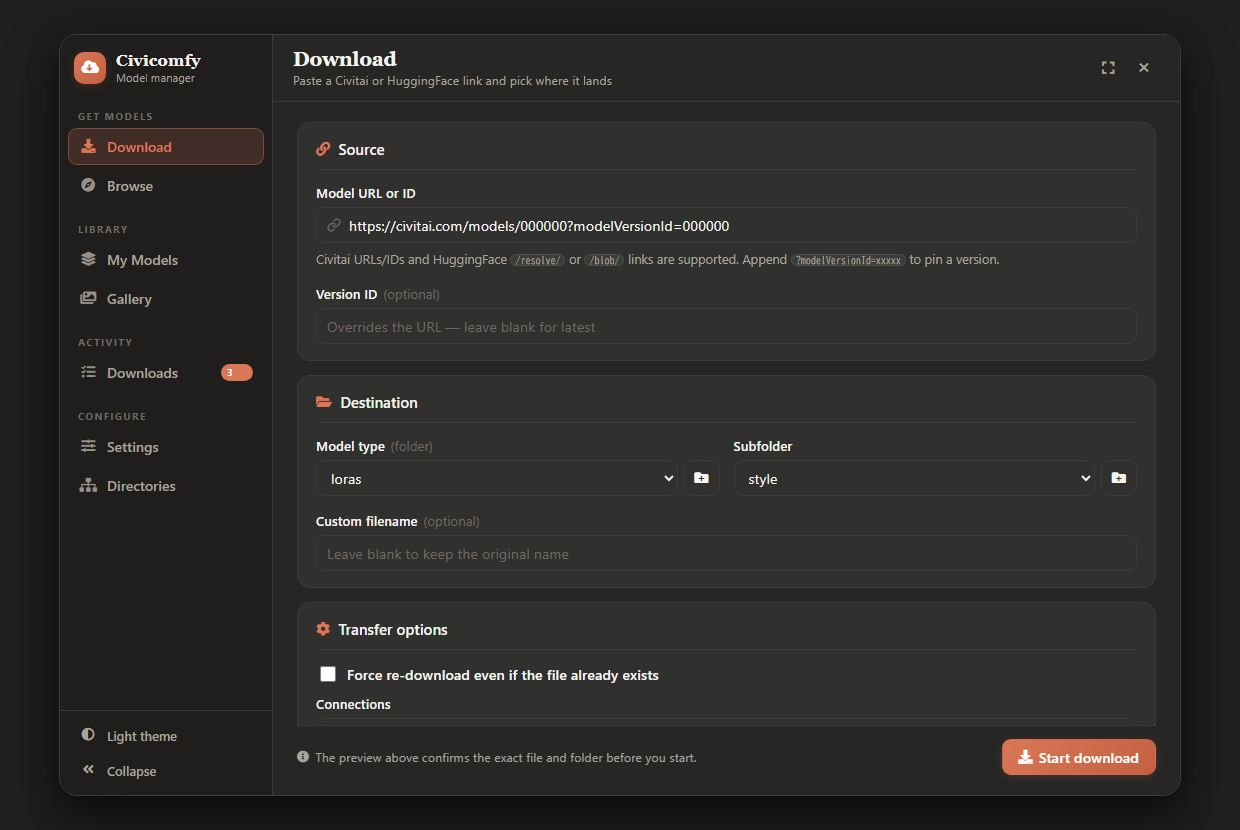
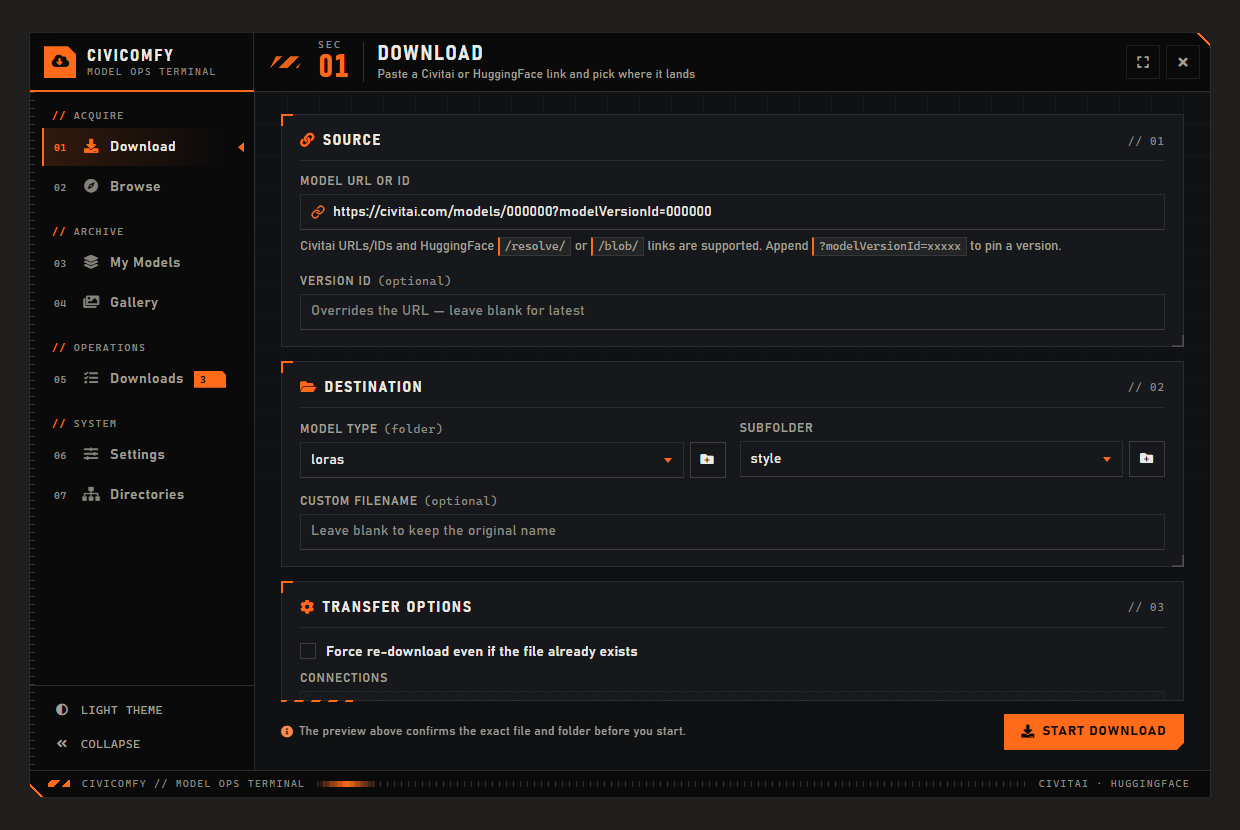
Update README screenshots and wording for the field-terminal theme
Recapture all eight screenshots with the new theme, describe the new
section groups, numbering and palettes, and stop pseudo-element
transitions in the screenshot harness so captures do not catch the
rail's active marker mid-fade.

diff --git a/docs/screenshot-harness.html b/docs/screenshot-harness.html
@@ -11,7 +11,7 @@
     body { background: #211f1e; display: flex; align-items: center; justify-content: center; }
     body.cfy-theme-light { background: #d9d5c9; }
     .civitai-downloader-modal { position: static !important; background: none !important; backdrop-filter: none !important; opacity: 1 !important; visibility: visible !important; }
-    html.cfy-still * { transition: none !important; animation: none !important; }
+    html.cfy-still *, html.cfy-still *::before, html.cfy-still *::after { transition: none !important; animation: none !important; }
     ::-webkit-scrollbar { width: 8px; height: 8px; }
   </style>
 </head>

diff --git a/README.md b/README.md
@@ -20,7 +20,7 @@ ComfyUI を離れることなく、モデルの検索・閲覧・ダウンロー
 - 🗂 **My Models** — インストール済みモデルの一覧・並び替え・削除
 - 🖼 **ギャラリー** — ワークフローが生成した画像**と動画**を閲覧
 - 📊 **ダウンロード** — 進行中の転送・キュー・履歴をリアルタイム表示
-- 🎨 **Claude テーマ** — ダーク/クリームの温かみのある統一デザイン
+- 🎨 **フィールドターミナル テーマ** — 黒地にオレンジのインダストリアル HUD、ライトパレットも用意
 
 ---
 
@@ -76,17 +76,19 @@ ComfyUI を再起動すると、右上のツールバーに **Civicomfy** ボタ
 ## インターフェース
 
 **サイドバーナビゲーション。** セクションは目的別にまとめられています —
-**Get models**(Download, Browse)、**Library**(My Models, Gallery)、
-**Activity**(Downloads)、**Configure**(Settings, Directories)。現在のセクション名と
-1行の説明が上部バーに表示され、**Downloads** のバッジがアプリのどこからでも進行中の
+**Acquire**(Download, Browse)、**Archive**(My Models, Gallery)、
+**Operations**(Downloads)、**System**(Settings, Directories)で、01〜07 の番号付き。
+現在のセクションの番号・名前と1行の説明が上部バーに表示され、**Downloads** のバッジがアプリのどこからでも進行中の
 転送数を数えます。
 
-**ウィンドウに合わせて縮小。** サイドバーは 60px のアイコンレールに折りたためるほか、
+**ウィンドウに合わせて縮小。** サイドバーは 64px のアイコンレールに折りたためるほか、
 ウィンドウが狭くなるとスライドオーバーのドロワーになります。各パネルは自身のスクロール
 位置を保持し、長いフォームは主要なアクションを画面外に隠さず下部に固定します。
 
-**Claude テーマ、2つのパレット。** 既定は温かみのあるダーク、必要に応じて温かみのある
-クリーム — サイドバー下部のトグルで切り替えます。すべての色は1つのトークンセットに由来する
+**フィールドターミナル テーマ、2つのパレット。** 既定は黒地にシグナルオレンジ、必要に応じて
+オフホワイトの「フィールド」パレット — サイドバー下部のトグルで切り替えます。四角いプレート、
+切り欠きの角、コンデンス書体と等幅書体、短く機械的なモーション(OS で視差効果を減らす設定に
+している場合は無効)。すべての色は1つのトークンセットに由来する
 ため、バッジやプログレスバーに至るまで両パレットで一貫します。選択はブラウザごとに記憶
 されます。
 

diff --git a/README.en.md b/README.en.md
@@ -20,7 +20,7 @@ Browse, search, and download models — and manage the ones you already have —
 - 🗂 **My Models** — see, sort, and delete locally installed models
 - 🖼 **Gallery** — browse the images *and videos* your workflows produced
 - 📊 **Downloads** — watch active transfers, queue, and history in real time
-- 🎨 **Claude theme** — one warm design system, in dark or cream
+- 🎨 **Field-terminal theme** — orange-on-black industrial HUD, with a light palette too
 
 ---
 
@@ -76,20 +76,23 @@ Restart ComfyUI. A **Civicomfy** button appears in the top-right toolbar.
 ## The interface
 
 **Sidebar navigation.** Sections are grouped by what you're trying to do —
-**Get models** (Download, Browse), **Library** (My Models, Gallery),
-**Activity** (Downloads), **Configure** (Settings, Directories). The current
-section's name and a one-line description sit in the top bar, and a badge on
+**Acquire** (Download, Browse), **Archive** (My Models, Gallery),
+**Operations** (Downloads), **System** (Settings, Directories), each numbered
+01–07. The current section's number, name and a one-line description sit in the
+top bar, and a badge on
 **Downloads** counts transfers in flight from anywhere in the app.
 
-**It shrinks with the window.** Collapse the sidebar to a 60 px icon rail, or let
+**It shrinks with the window.** Collapse the sidebar to a 64 px icon rail, or let
 it become a slide-over drawer when the window gets narrow. Every panel keeps its
 own scroll position, and long forms keep their primary action pinned to the
 bottom instead of hiding it below the fold.
 
-**Claude theme, two palettes.** Warm dark by default, warm cream on request —
-switch with the toggle at the bottom of the sidebar. Every colour comes from one
-token set, so both palettes stay consistent down to the badges and progress bars.
-Your choice is remembered per browser.
+**Field-terminal theme, two palettes.** Black with a signal-orange accent by
+default, an off-white "field" palette on request — switch with the toggle at the
+bottom of the sidebar. Square plates, cut corners, condensed and mono type, and
+short mechanical motion (turned off when your system asks for reduced motion).
+Every colour comes from one token set, so both palettes stay consistent down to
+the badges and progress bars. Your choice is remembered per browser.
 
 **Keyboard & mouse.** `Esc` closes the window (or just the panel on top of it),
 arrow keys page through the gallery lightbox, and card grids resize live with the
